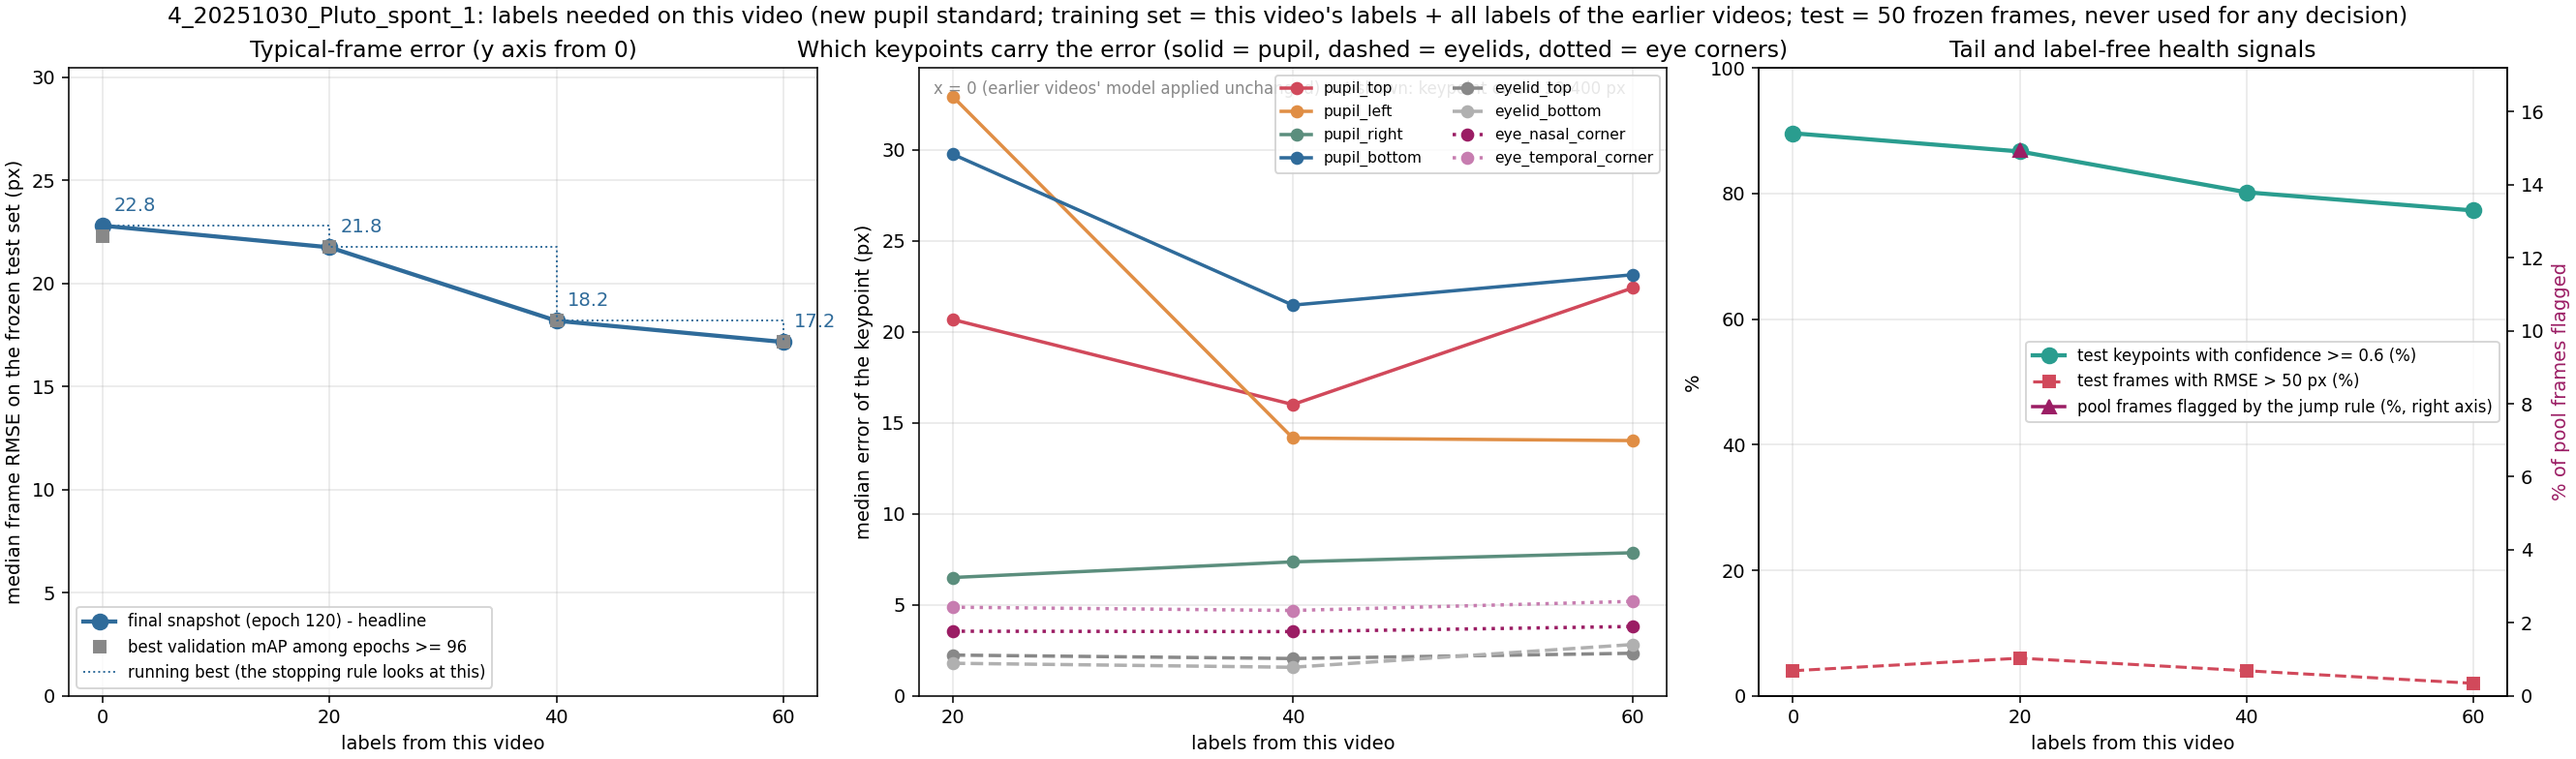
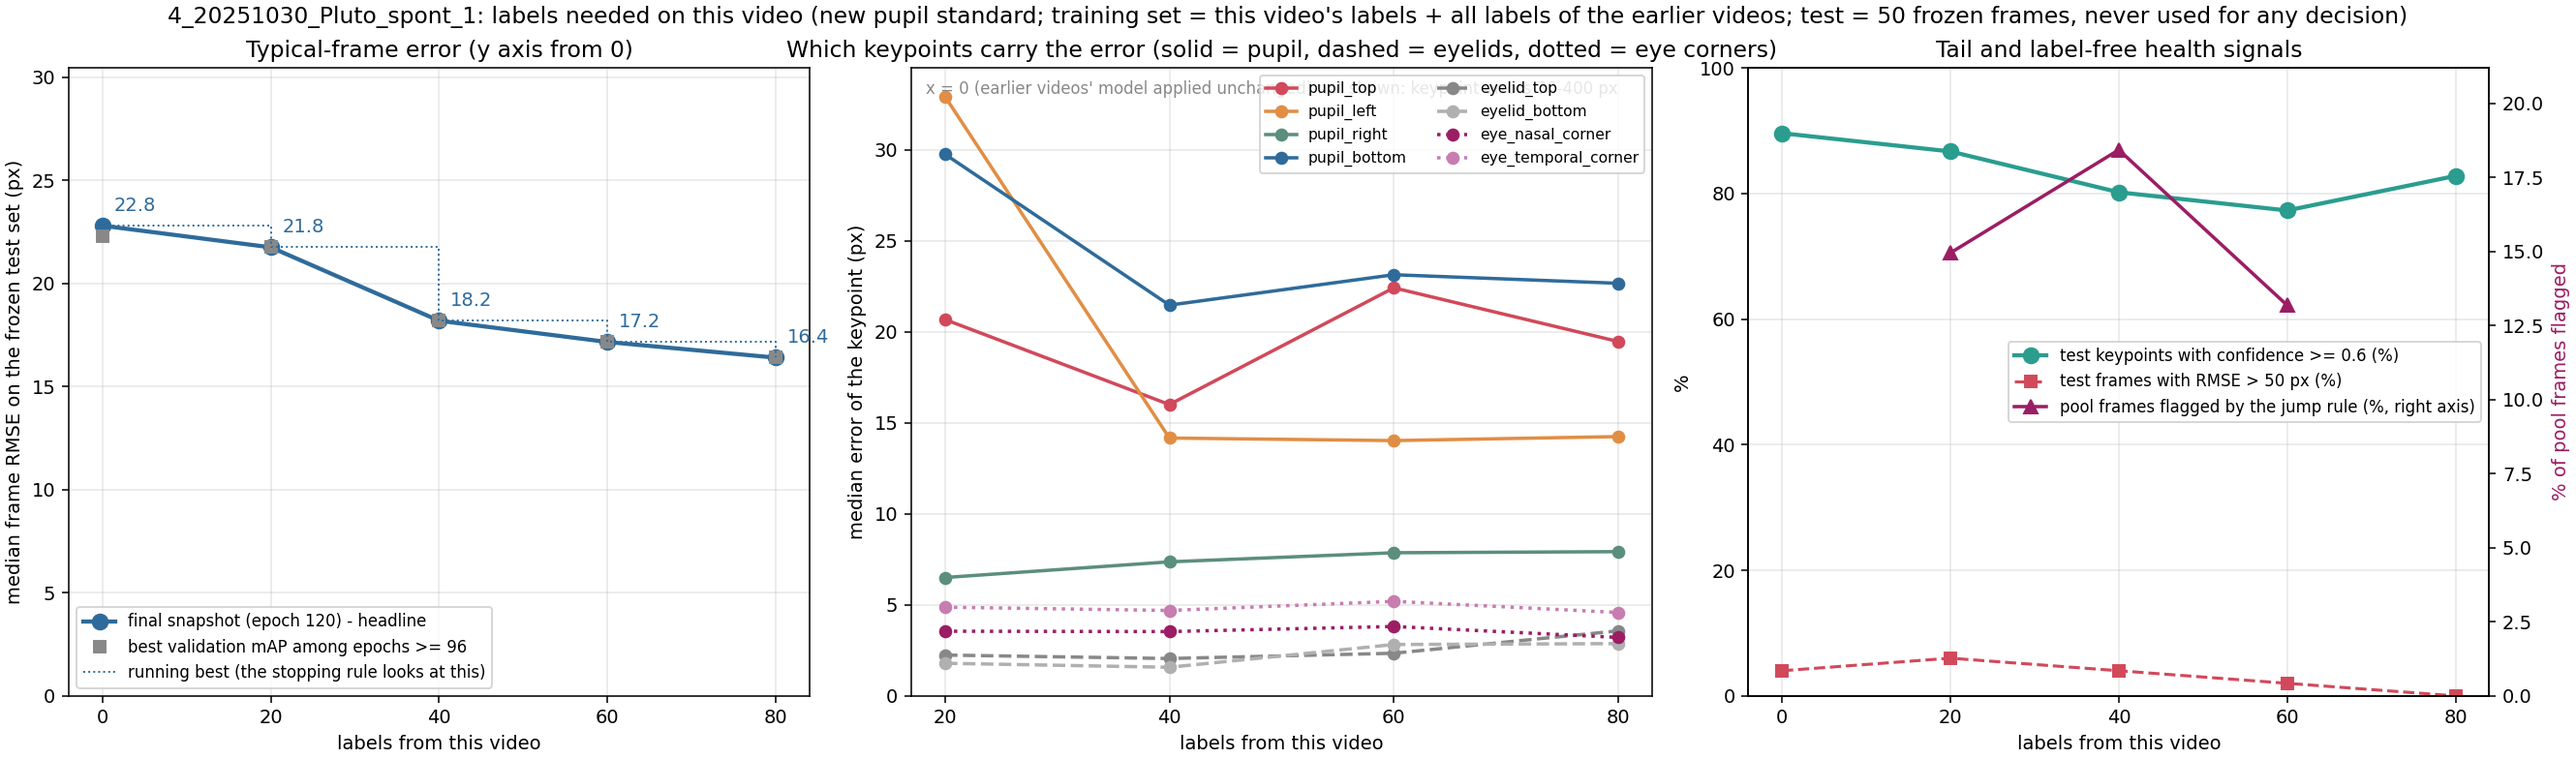
Video 4 (2025-10-30) step 4: 80 labels = 16.40 px (still improving); READMEs updated

diff --git a/README.md b/README.md
@@ -8,34 +8,34 @@ how many human labels are needed, and how few frames must a person correct, befo
 Zhiheng Li (University of Minnesota), with Kaiwen Sheng (Stanford). Raw videos, frames, labels, model weights and
 per-frame predictions stay local; git carries code, documentation and audited aggregate results.
 
-## Status (last updated 2026-09-24 23:15 CDT)
+## Status (last updated 2026-09-25 00:45 CDT)
 
 | what | state |
 |---|---|
 | Label standard | era 3 (since 2026-09-20): the pupil is an **ellipse**; its four points are the ellipse endpoints, including the part hidden under the lid |
 | Recipe (frozen) | ResNet-50, batch 2, trained from scratch, 120 epochs, LR drops at 96 / 114; headline = final snapshot, median per-frame RMSE over the 8 keypoints on 50 frozen test frames |
 | Videos done | video 0 (mouse A, 5 min), videos 1-3 (mouse B "Pluto", 2025-10-31) |
-| In progress | **video 4** (Pluto, 2025-10-30, poor image quality): 60 labels = 17.16 px, still improving; step 4 (80 labels) training since 23:14 |
+| In progress | **video 4** (Pluto, 2025-10-30, poor image quality): 80 labels = 16.40 px, still improving (4.4% over 60 labels); batch 5 (100 labels) is selected next |
 | Test-set only | video 5 (2025-10-29) and video 6 (2025-10-28): frozen test sets scored by every model so far |
 
 ## Main results so far (era 3, `new_pupil_top_video_scaling/`)
 
 Labels needed per video (plateau = two consecutive 20-label steps that improve the best error by <= 3%):
 
-| video | recording | earlier labels in the training set | error: 0 / 20 / 40 / 60 own labels | plateau |
+| video | recording | earlier labels in the training set | error: 0 / 20 / 40 / 60 / 80 own labels | plateau |
 |---|---|---|---|---|
 | 0 | mouse A, 5 min | 0 | – / 12.93 / 13.00 / 12.04 px | 60 labels, 12.0 px |
 | 1 | Pluto, 2025-10-31 | 100 | 208 / 10.37 / 12.17 / 11.35 px | 20 labels, 10.4 px |
 | 2 | Pluto, 2025-10-31 | 200 | 9.99 / 7.73 / 7.57 / 7.83 px | 20 labels, 7.7 px |
 | 3 | Pluto, 2025-10-31 | 260 | 4.43 / 3.40 / 3.87 / 3.63 px | 20 labels, 3.4 px |
-| 4 | Pluto, 2025-10-30 (poor quality) | 320 | 22.80 / 21.75 / 18.19 / 17.16 px | not reached yet |
+| 4 | Pluto, 2025-10-30 (poor quality) | 320 | 22.80 / 21.75 / 18.19 / 17.16 / 16.40 px | not reached yet |
 
 What the numbers say:
 
 - **A new mouse needs its own labels**: models trained only on mouse A score 170-350 px on mouse B; 20 mouse-B
   labels bring it to about 10 px.
 - **Same day transfers, a new day does not**: video 3 was at 4.4 px before any of its own labels (thanks to the
-  other 2025-10-31 videos), while video 4 (one day earlier) starts at 22.8 px and needs 60+ of its own labels.
+  other 2025-10-31 videos), while video 4 (one day earlier) starts at 22.8 px and is still improving at 80 of its own labels.
 - **Adding videos does not hurt old ones**: every model is back-tested on every frozen test set
   (`new_pupil_top_video_scaling/results/cross_video_curves.png`); earlier videos stay flat as labels are added.
 - **Pupil area**: with the new ellipse labels the 4-point area (width x top-to-bottom height) halves the error of

diff --git a/new_pupil_top_video_scaling/results/README.md b/new_pupil_top_video_scaling/results/README.md
@@ -16,7 +16,7 @@ snapshot with the best validation mAP after the first learning-rate drop (epochs
 | 1 `1_20251031_Pluto_spont_1` | mouse B, 19.9 min | 100 (all of video 0) | 208.2 / 10.37 / 12.17 / 11.35 / 11.59 / 10.94 | **20 labels** | 10.37 px |
 | 2 `2_20251031_pluton2` | mouse B, 19.9 min (2nd recording) | 200 (videos 0 + 1) | 9.99 / 7.73 / 7.57 / 7.83 / 7.56 / – | **20 labels** (rule fired at 60; user stopped selecting at 60 labels on 2026-09-23; batch04 was already labeled and was trained + scored, no further selection) | 7.73 px |
 | 3 `3_20251031_pluto3` | mouse B, 19.9 min (3rd recording) | 260 (videos 0 + 1 + 60 of video 2) | 4.43 / 3.40 / 3.87 / 3.63 / – / – | **20 labels** (rule fired at 60) | 3.40 px |
-| 4 `4_20251030_Pluto_spont_1` | mouse B, 19.9 min, 2025-10-30 (poor image quality) | 320 (videos 0-3 as for video 3) | 22.80 / 21.75 / 18.19 / 17.16 / – / – | not reached (in progress) | – |
+| 4 `4_20251030_Pluto_spont_1` | mouse B, 19.9 min, 2025-10-30 (poor image quality) | 320 (videos 0-3 as for video 3) | 22.80 / 21.75 / 18.19 / 17.16 / 16.40 / – | not reached (in progress) | – |
 
 Notes
 - With 50 test frames the median moves by about 1 px between neighbouring steps from sampling alone, so the

diff --git a/new_pupil_top_video_scaling/4_20251030_Pluto_spont_1/results/README.md b/new_pupil_top_video_scaling/4_20251030_Pluto_spont_1/results/README.md
@@ -16,6 +16,7 @@ k-means, later batches by jump rule + k-means. The video copy is `4_20251030_Plu
 | 20 | 21.75 px | 44.0 | 6% | 87% | 8,548 (15.0%) |
 | 40 | 18.19 px | 35.3 | 4% | 80% | 10,536 (18.4%) |
 | 60 | 17.16 px | 32.1 | 2% | 77% | 7,537 (13.2%) |
+| 80 | 16.40 px | 34.1 | 0% | 83% | (pending: step-4 whole-video prediction) |
 
 Training set of step 1 (shuffle 511): 100 labels of video 0 + 100 of video 1 + 60 of video 2 + 60 of video 3 +
 20 of this video (340 frames); validation = the 20 val frames of this video.
